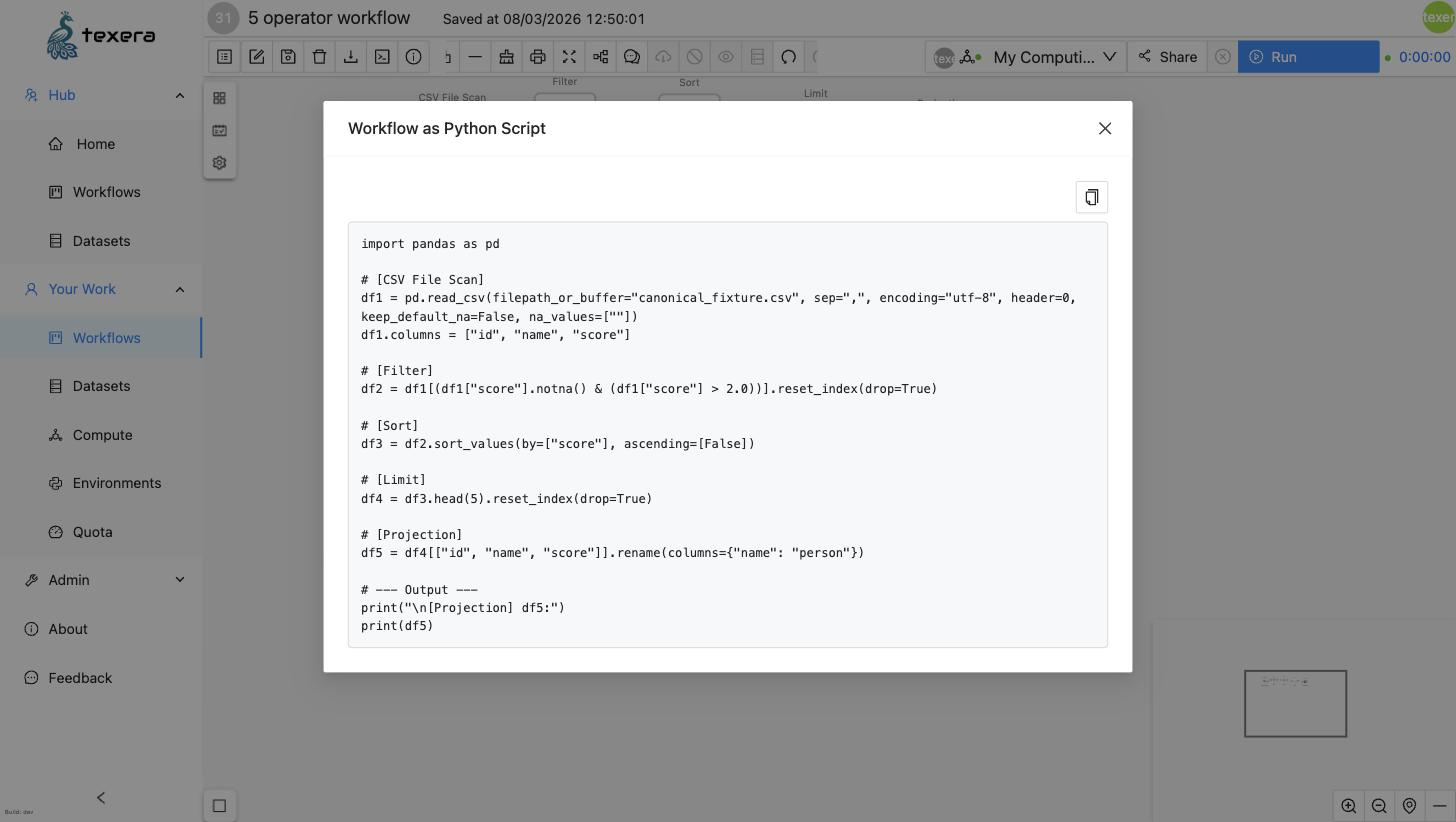
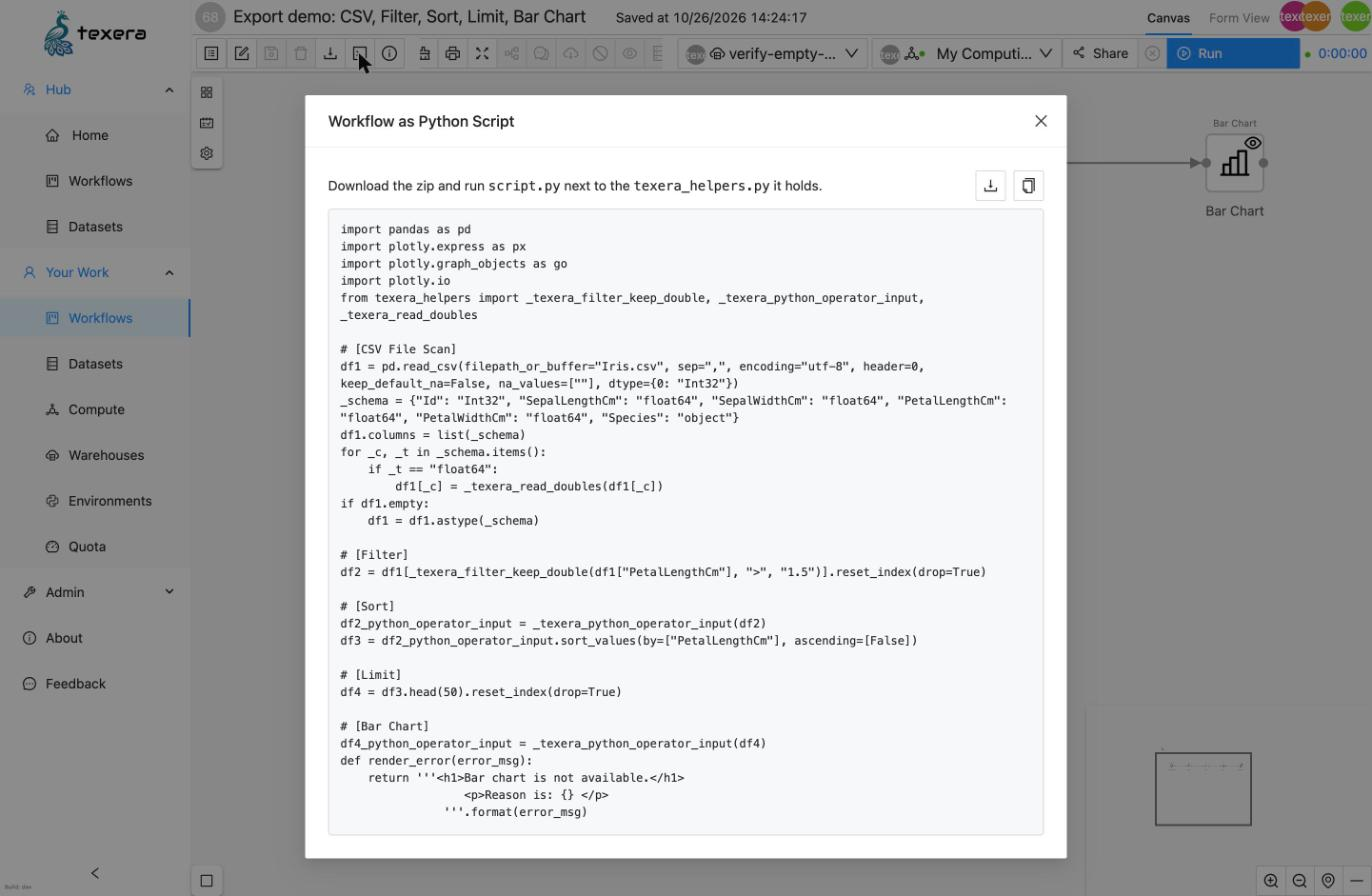
fix(blog): describe the export as it ships, with its helper module, and this run's counts

diff --git a/content/blog/export-workflow-as-python/index.md b/content/blog/export-workflow-as-python/index.md
@@ -2,9 +2,9 @@
 title: "Taking a Workflow Out of Texera as a Python Script"
 linkTitle: "Workflow to Python Script"
 slug: "export-workflow-as-python"
-date: 2026-09-18
+date: 2026-11-23
 author: Kary Zheng, advised by Professor Chen Li
-description: "Texera can now hand a user the workflow they built as a single standalone Python file, and every operator that does so is checked by running it both ways and comparing the results."
+description: "Texera can now hand a user the workflow they built as a standalone Python script, and every operator that exports is checked by running it both ways and comparing the results."
 images:
   - /images/blog_hero/workflow-to-python-export.jpg
 tags: ["python", "export", "pandas", "verification", "workflows"]
@@ -19,7 +19,7 @@ Feature Introduction &middot; Apache Texera
 </p>
 
 <p style="font-family: Georgia,'Times New Roman',serif; font-size: 21px; line-height: 1.5; margin: 0 0 20px;">
-A workflow built on the Texera canvas can be run, shared and read, but only inside Texera. A user who wants to keep a pipeline after the fact, hand it to a colleague who does not run Texera, or step through it in a notebook has had nothing to take away. Texera is gaining an export that closes that gap: given a workflow, it produces a single Python file that reads the same sources, applies the same operators in the same order, and prints its results.
+A workflow built on the Texera canvas can be run, shared and read, but only inside Texera. A user who wants to keep a pipeline after the fact, hand it to a colleague who does not run Texera, or step through it in a notebook has had nothing to take away. Texera now has an export that closes that gap. Given a workflow, it produces a Python script that reads the same sources, applies the same operators in the same order, and prints its results.
 </p>
 
 <p style="font-family: Georgia,'Times New Roman',serif; font-size: 21px; line-height: 1.5; margin: 0 0 20px;">
@@ -27,7 +27,7 @@ The harder half of the work is not the export. It is the question that follows i
 </p>
 
 <p style="font-family: 'Helvetica Neue',Arial,sans-serif; font-size: 16px; color: #5b5347; margin: 0 0 8px; padding: 14px 18px; background: #fbf7ef; border-radius: 10px;">
-This post has two halves. The first shows what the export does, with no assumptions about Texera's internals. The second covers how it works and how it is kept honest, for readers who want that. The feature is rolling out one operator family at a time under <a style="color: #c8451f; font-weight: bold;" href="https://github.com/apache/texera/issues/8325">issue #8325</a>.
+This post has two halves. The first shows what the export does, with no assumptions about Texera's internals. The second covers how it works and how it is kept honest, for readers who want that. The work landed one operator family at a time under <a style="color: #c8451f; font-weight: bold;" href="https://github.com/apache/texera/issues/8325">issue #8325</a>.
 </p>
 
 <h2 style="font-family: Georgia,'Times New Roman',serif; font-weight: 900; font-size: 32px; letter-spacing: -.01em; margin: 48px 0 6px; line-height: 1.1; color: #14110f;">
@@ -59,7 +59,7 @@ Exporting a Workflow
 <div style="height: 3px; width: 60px; background: #14110f; margin: 0 0 22px;"></div>
 
 <p style="font-family: 'Helvetica Neue',Arial,sans-serif; font-size: 17px; margin: 0 0 18px;">
-In the workspace toolbar there is a button marked with a code icon, titled <b>export as Python script</b>. It sends the workflow the user currently has open to the compiling service and shows the script that comes back, with a copy button beside it. Nothing about the workflow changes, and nothing has to be running first.
+In the workspace toolbar there is a button marked with a code icon, titled <b>export as Python script</b>. It sends the workflow the user currently has open to the compiling service and shows the script that comes back. One button beside it downloads a zip, and another copies the script. Nothing about the workflow changes, and nothing has to be running first.
 </p>
 
 <div style="margin: 34px 0;">
@@ -72,19 +72,23 @@ In the workspace toolbar there is a button marked with a code icon, titled <b>ex
 <h3 style="font-family: Georgia,'Times New Roman',serif; font-weight: 900; font-size: 22px; margin: 30px 0 10px;">What comes back</h3>
 
 <p style="font-family: 'Helvetica Neue',Arial,sans-serif; font-size: 17px; margin: 0 0 18px;">
-A small workflow makes the result concrete. Take a CSV file scan, a filter on one column, a sort on another, a limit, and a projection that renames a column. This is what the button hands back:
+A small workflow makes the result concrete. Take a CSV file scan of the Iris dataset, a filter on petal length, a sort on the same column, a limit, and a bar chart. This is what the button hands back:
 </p>
 
 <div style="margin: 40px 0; text-align: center;">
   <img src="/images/blog_hero/workflow-to-python-export.jpg" alt="The Texera workspace with the export modal open, showing the Python script generated from a five-operator workflow" style="width: 100%; height: auto; display: block; margin: 0 auto; border-radius: 12px;">
   <p style="font-size: 14px; color: #666; margin-top: 10px;">
-    The script the workflow on the canvas produced, ready to copy. Every line names the operator above it.
+    The script the workflow on the canvas produced, ready to download or copy. A comment names the operator behind every block.
   </p>
 </div>
 
 
 <p style="font-family: 'Helvetica Neue',Arial,sans-serif; font-size: 17px; margin: 0 0 18px;">
-It is plain pandas. There is no Texera import, no runtime to install and no configuration file beside it. Each operator appears as a comment naming the operator that produced the line below it, which is what makes the script readable next to the canvas it came from. Only pandas is imported for every script; everything beyond it is asked of the operators actually in the plan, so a workflow that draws no chart never imports a plotting library. Two lines are there because the engine does the same thing: the filter guards against a null, which is how the engine's own filter answers a null field, and the scan renames its columns to the names the schema gave them, which is what every downstream operator was configured against.
+It is pandas, with Plotly for the chart. Each operator appears as a comment naming the operator that produced the block below it, which is what makes the script readable next to the canvas it came from. Only pandas is imported for every script. Everything beyond it is asked of the operators actually in the plan, so a workflow that draws no chart never imports a plotting library.
+</p>
+
+<p style="font-family: 'Helvetica Neue',Arial,sans-serif; font-size: 17px; margin: 0 0 18px;">
+The one import from Texera is <code>texera_helpers</code>, a small module that ships in the zip beside the script. The script names the three helpers it calls, and each is there because the engine does something pandas does not. The scan reads each decimal column the way Java reads a number from text. The filter drops a row whose field is null and compares the rest the way the engine compares doubles. The sort first hands its input over as the engine hands a table to a Python operator. The scan also renames its columns to the names the schema gave them, which is what every downstream operator was configured against.
 </p>
 
 <h3 style="font-family: Georgia,'Times New Roman',serif; font-weight: 900; font-size: 22px; margin: 30px 0 10px;">What the export guarantees</h3>
@@ -92,10 +96,10 @@ It is plain pandas. There is no Texera import, no runtime to install and no conf
 <table class="td-initial" style="border: 2px solid #14110f; border-collapse: collapse; margin: 6px 0 26px; width: 100%;" role="presentation" cellspacing="0" cellpadding="0">
 <tbody>
 <tr>
-<td style="padding: 16px 18px; background: #fbf7ef; border-bottom: 1px solid #e3dccd; font-family: 'Helvetica Neue',Arial,sans-serif; font-size: 15.5px; vertical-align: top;"><b>One file, in run order.</b> The script reads top to bottom in the order the workflow executes, with a comment naming the operator behind every block.</td>
+<td style="padding: 16px 18px; background: #fbf7ef; border-bottom: 1px solid #e3dccd; font-family: 'Helvetica Neue',Arial,sans-serif; font-size: 15.5px; vertical-align: top;"><b>One script, in run order.</b> The script reads top to bottom in the order the workflow executes, with a comment naming the operator behind every block.</td>
 </tr>
 <tr>
-<td style="padding: 16px 18px; background: #fbf7ef; border-bottom: 1px solid #e3dccd; font-family: 'Helvetica Neue',Arial,sans-serif; font-size: 15.5px; vertical-align: top;"><b>No dependency on Texera.</b> Plain pandas, with Plotly for a chart and scikit-learn or transformers for a model, so the script runs wherever those are installed.</td>
+<td style="padding: 16px 18px; background: #fbf7ef; border-bottom: 1px solid #e3dccd; font-family: 'Helvetica Neue',Arial,sans-serif; font-size: 15.5px; vertical-align: top;"><b>Nothing to install from Texera.</b> The zip holds <code>script.py</code> and the <code>texera_helpers.py</code> it imports from, so the unzipped folder runs with <code>python script.py</code>. Beyond that it needs pandas, with Plotly for a chart and scikit-learn or transformers for a model.</td>
 </tr>
 <tr>
 <td style="padding: 16px 18px; background: #fbf7ef; border-bottom: 1px solid #e3dccd; font-family: 'Helvetica Neue',Arial,sans-serif; font-size: 15.5px; vertical-align: top;"><b>Every branch is printed.</b> Any output that no other operator consumes is printed at the end, labelled with the operator it came from.</td>
@@ -114,7 +118,7 @@ How the Translation Works
 <div style="height: 3px; width: 60px; background: #14110f; margin: 0 0 22px;"></div>
 
 <p style="font-family: 'Helvetica Neue',Arial,sans-serif; font-size: 17px; margin: 0 0 18px;">
-An operator says how it reads outside the engine by implementing one trait, <code>StandaloneCodeGenerator</code>. Its central method returns a block of pandas, and beside it an operator can name the imports it needs, helper definitions to emit once for the whole script, and, for a source, the file it reads. The block does not know the names of any variables. It refers to its inputs and outputs by position, as <code>in1df</code> and <code>out1df</code>, and the translator substitutes real names later. Sort's whole implementation builds a column list and an ascending list and emits one <code>sort_values</code> call.
+An operator says how it reads outside the engine by implementing one trait, <code>StandaloneCodeGenerator</code>. Its central method returns a block of pandas, and beside it an operator can name the imports it needs, the shared helpers it calls, and, for a source, the file it reads. The block does not know the names of any variables. It refers to its inputs and outputs by position, as <code>in1df</code> and <code>out1df</code>, and the translator substitutes real names later. Sort's whole implementation builds a column list and an ascending list and emits one <code>sort_values</code> call.
 </p>
 
 <div style="margin: 40px 0; text-align: center;">
@@ -132,6 +136,12 @@ The translator walks the plan in topological order, gives every output port of e
 
 <p style="font-family: 'Helvetica Neue',Arial,sans-serif; font-size: 17px; margin: 0 0 18px;">
 At the end the translator finds every port that no link consumes and prints it. A workflow with one terminal operator prints once; a workflow that branches prints each branch, labelled with the operator it came from.
+</p>
+
+<h3 style="font-family: Georgia,'Times New Roman',serif; font-weight: 900; font-size: 22px; margin: 30px 0 10px;">Helpers in a module of their own</h3>
+
+<p style="font-family: 'Helvetica Neue',Arial,sans-serif; font-size: 17px; margin: 0 0 18px;">
+Some operators cannot be written as one pandas call and still match the engine. Java reads a number from text, trims whitespace and compares a NaN its own way, and an operator that does any of these needs a few lines of Python that do it Java's way. Those lines live in one module, <code>texera_helpers</code>, generated from the helper blocks the operators declare. The script imports only the names it calls, so the workflow's own code stays at the top of the file where a reader looks for it. The module comes from the same Texera that wrote the script, so the two always match. A test fails when the checked-in module falls behind the operators, and the translator refuses an operator whose helper the module does not hold.
 </p>
 
 <h3 style="font-family: Georgia,'Times New Roman',serif; font-weight: 900; font-size: 22px; margin: 30px 0 10px;">An operator with no standalone form</h3>
@@ -165,17 +175,11 @@ One path drives the operator through the engine's own execution, the way a runni
 </p>
 
 <p style="font-family: 'Helvetica Neue',Arial,sans-serif; font-size: 17px; margin: 0 0 18px;">
-On the most recent full run the suite covered <b>151 operators</b>, and <b>146 agreed on both paths</b>. The other five are withheld, and each states its reason in the report rather than being quietly absent.
+On the most recent full run the suite covered <b>151 operators</b>, and <b>149 agreed on both paths</b>. The other two are withheld, and each states its reason in the report rather than being quietly absent.
 </p>
 
 <table class="td-initial" style="border: 2px solid #14110f; border-collapse: collapse; margin: 6px 0 26px; width: 100%;" role="presentation" cellspacing="0" cellpadding="0">
 <tbody>
-<tr>
-<td style="padding: 16px 18px; background: #fbf7ef; border-bottom: 1px solid #e3dccd; font-family: 'Helvetica Neue',Arial,sans-serif; font-size: 15.5px; vertical-align: top;"><b>Two score or predict from a fitted model</b> that arrives on an input port, and a fixture written from the JVM cannot carry a live model object.</td>
-</tr>
-<tr>
-<td style="padding: 16px 18px; background: #fbf7ef; border-bottom: 1px solid #e3dccd; font-family: 'Helvetica Neue',Arial,sans-serif; font-size: 15.5px; vertical-align: top;"><b>One reads file names that arrive at run time</b> on an input port, which this runner does not feed to a source.</td>
-</tr>
 <tr>
 <td style="padding: 16px 18px; background: #fbf7ef; border-bottom: 1px solid #e3dccd; font-family: 'Helvetica Neue',Arial,sans-serif; font-size: 15.5px; vertical-align: top;"><b>One fetches a live URL</b> over the network, so it has no fixed answer to compare against.</td>
 </tr>
@@ -192,7 +196,7 @@ It is worth being precise about what this proves. The comparison shows that the 
 <h3 style="font-family: Georgia,'Times New Roman',serif; font-weight: 900; font-size: 22px; margin: 30px 0 10px;">What it is for, day to day</h3>
 
 <p style="font-family: 'Helvetica Neue',Arial,sans-serif; font-size: 17px; margin: 0 0 18px;">
-The harness has a second use, which turned out to matter more than the first. Adding an operator to it is the step that tells a contributor their standalone code is finished. A new operator arrives with its generated block and a fixture, the suite runs it both ways, and a disagreement becomes a failing test on the pull request rather than a bug a user finds in an exported script months later. Because these runs launch Python subprocesses, they live in their own continuous integration job instead of slowing down the ordinary unit tests.
+The harness has a second use, which turned out to matter more than the first. It is the step that tells a contributor their standalone code is finished. The suite finds a new operator the moment it is registered, builds a configuration from the operator's own schema, runs it both ways, and turns a disagreement into a failing test on the pull request rather than a bug a user finds in an exported script months later. Because these runs launch Python subprocesses, they live in their own continuous integration job, which runs only on a pull request that could change their result.
 </p>
 
 <h2 style="font-family: Georgia,'Times New Roman',serif; font-weight: 900; font-size: 32px; letter-spacing: -.01em; margin: 48px 0 6px; line-height: 1.1; color: #14110f;">
@@ -217,7 +221,7 @@ Some operators are outside what a single file can reasonably do. A user defined 
 <h3 style="font-family: Georgia,'Times New Roman',serif; font-weight: 900; font-size: 22px; margin: 30px 0 10px;">Two limits worth stating plainly</h3>
 
 <p style="font-family: 'Helvetica Neue',Arial,sans-serif; font-size: 17px; margin: 0 0 18px;">
-The script is sequential. The engine's parallelism is a property of the runtime, not of the operators, so the script computes the same answer without the engine's distribution. And a file source is written as a plain file name, on the assumption that the file sits beside the script, because a Texera resource URI means nothing outside the system. Someone exporting a workflow that reads a dataset should expect to put the file next to the script, or to edit that one line.
+The script is sequential. The engine's parallelism is a property of the runtime, not of the operators, so the script computes the same answer without the engine's distribution. And a file source is written as a plain file name, on the assumption that the file sits beside the script, because a Texera resource URI means nothing outside the system. Someone exporting a workflow that reads a dataset should expect to put the file next to the script, or to edit that one line. Where two sources read files with the same name, or one shares a name with a file in the zip, the script reads the later one under a numbered name such as <code>data-2.csv</code>, and the export dialog says which file to save under which name.
 </p>
 
 <div style="background: #2a241d; color: #f4efe6; border-radius: 16px; padding: 38px 40px; margin: 36px 0 0; text-align: center;">
@@ -226,7 +230,7 @@ Where This Goes Next
 </h2>
 
 <p style="font-family: 'Helvetica Neue',Arial,sans-serif; font-size: 16px; color: #cbc1b1; margin: 0 auto 22px; max-width: 680px;">
-The export is landing as a series of changes, one operator family at a time, each with its parity tests. A guide for contributors adding an operator to the export and to the harness lands with the last of them. Development is tracked on GitHub, and design discussion happens there and on <a style="color: #f4efe6; font-weight: bold;" href="https://lists.apache.org/list.html?dev@texera.apache.org">dev@texera.apache.org</a>.
+The export landed as a series of changes, one operator family at a time, each with its parity tests. A contributor adding an operator now starts from the <a style="color: #f4efe6; font-weight: bold;" href="https://github.com/apache/texera/blob/main/docs/contribution-guidelines/guide-to-add-a-new-operator.md">guide to adding a new operator</a>, which says what the export and the harness ask of it. Development is tracked on GitHub, and design discussion happens there and on <a style="color: #f4efe6; font-weight: bold;" href="https://lists.apache.org/list.html?dev@texera.apache.org">dev@texera.apache.org</a>.
 </p>
 
 <a style="display: inline-block; background: #c8451f; color: #fff; font-weight: 800; letter-spacing: .04em; text-decoration: none; padding: 14px 30px; border-radius: 999px; font-family: 'Helvetica Neue',Arial,sans-serif; font-size: 15px;" href="https://github.com/apache/texera/issues/8325" target="_blank" rel="noopener">Follow the work on issue #8325</a>
